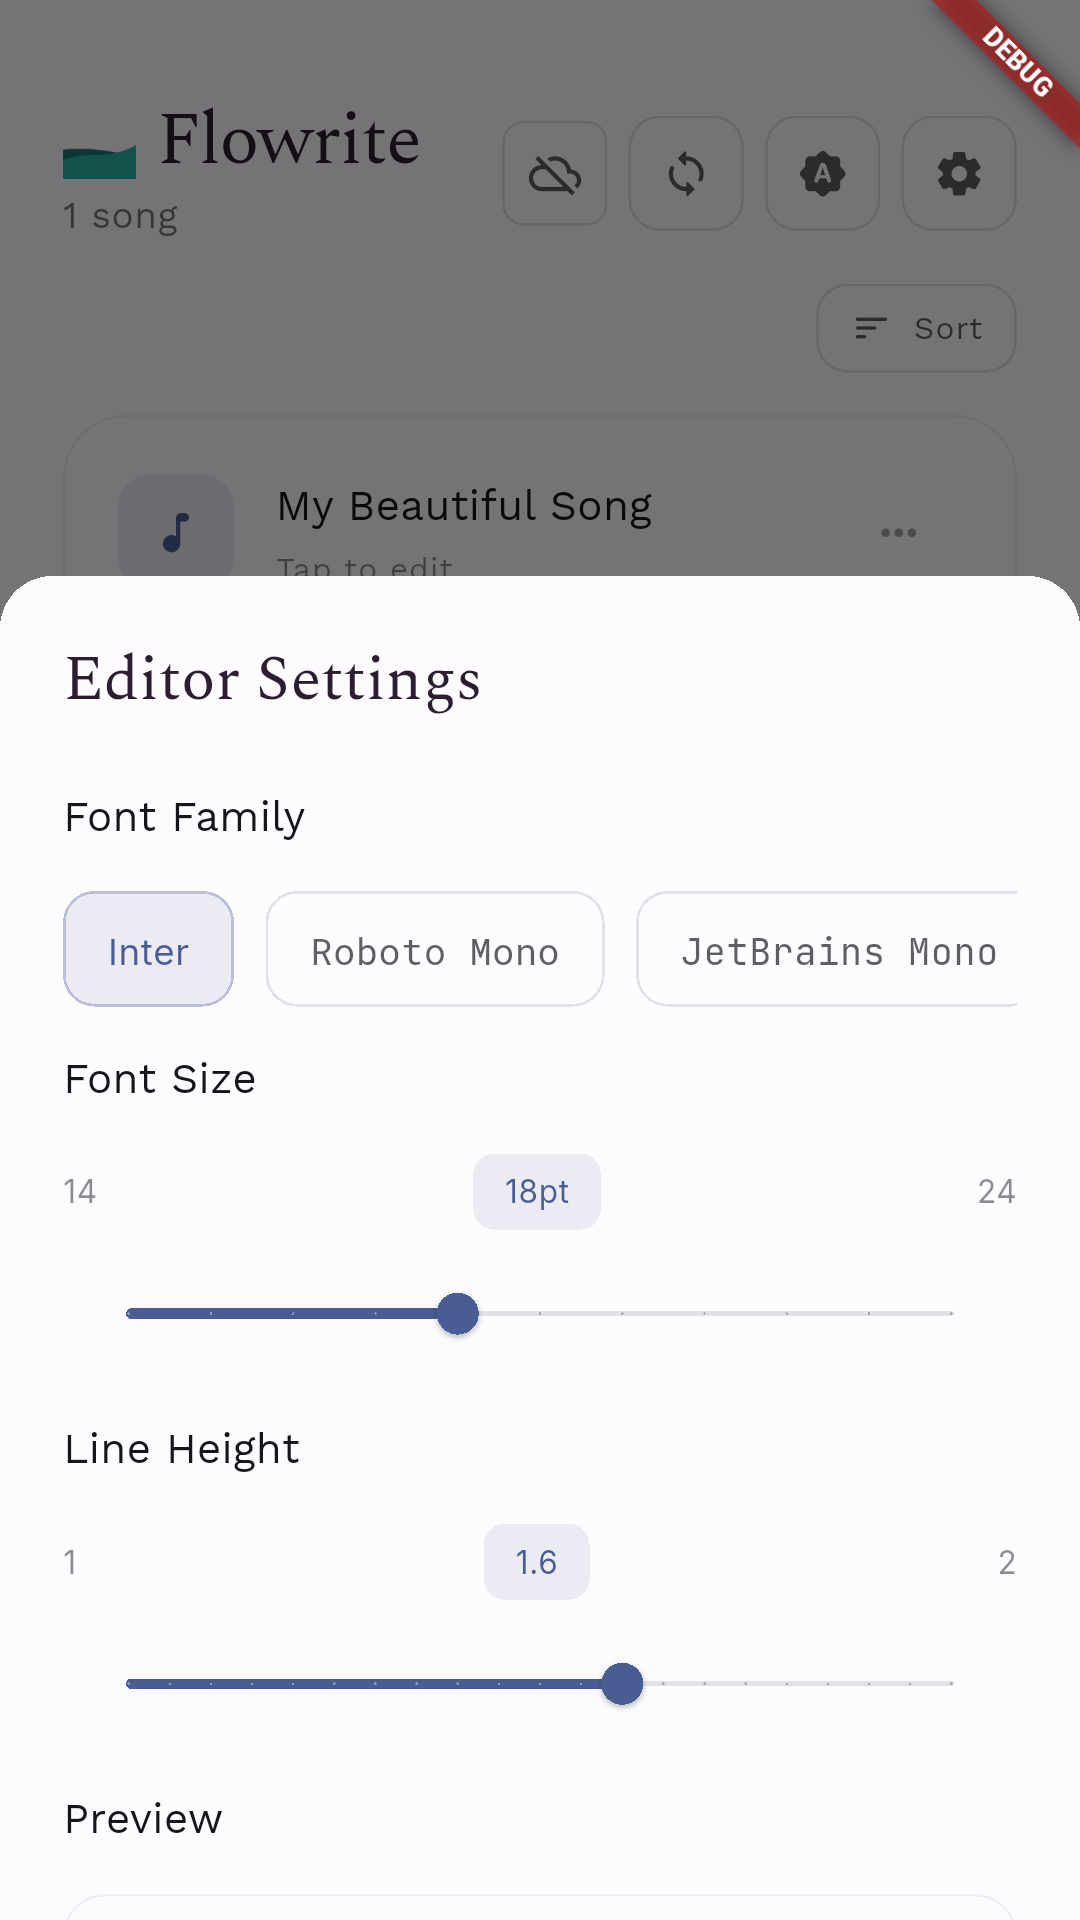
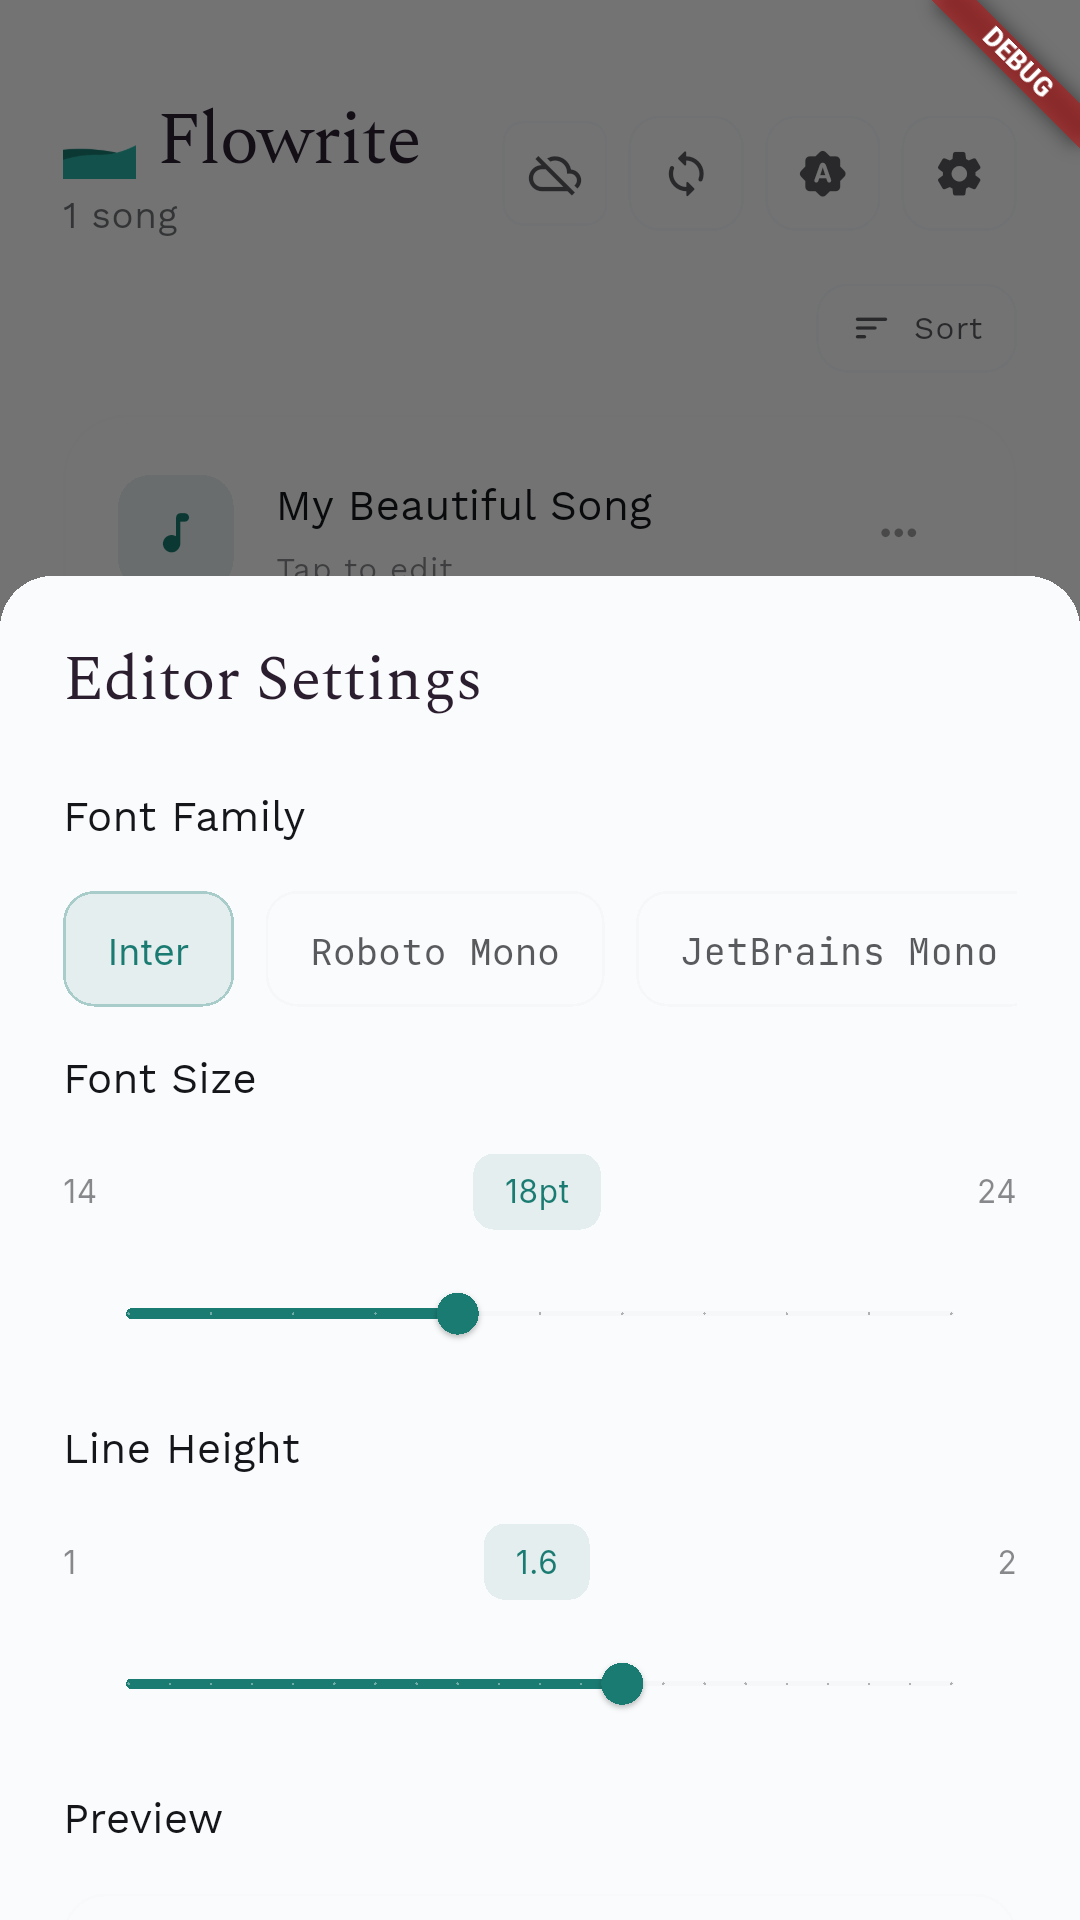
fixes: a11y fix and proper screenshots without dynamic colors.

Changed region(s): [[0.1222, 0.8438, 0.6111, 0.9062], [0.1222, 0.6562, 0.4583, 0.7188], [0.1222, 0.4688, 0.1528, 0.5]]

diff --git a/lib/providers/theme_provider.dart b/lib/providers/theme_provider.dart
@@ -172,7 +172,7 @@ class ThemeProvider extends ChangeNotifier {
     brightness: Brightness.light,
     colorScheme: const ColorScheme.light(
       primary: Color(0xFF1A7B72), // Flow Teal (Dark) - for light theme
-      onPrimary: Color(0xFF091313), // On Accent
+      onPrimary: Color(0xFFFAFBFC), // Porcelain - light theme consistent color
       secondary: Color(0xFF2B1E2F), // Deep Aubergine
       onSecondary: Color(0xFFFAFBFC), // Porcelain
       tertiary: Color(0xFF58465D), // Smoky Aubergine
@@ -275,7 +275,7 @@ class ThemeProvider extends ChangeNotifier {
     brightness: Brightness.dark,
     colorScheme: const ColorScheme.dark(
       primary: Color(0xFF2AB3A6), // Flow Teal (Bright) - for dark theme
-      onPrimary: Color(0xFF0A1917), // On Accent
+      onPrimary: Color(0xFF0A1917), // Dark text on bright teal for sufficient contrast
       secondary: Color(0xFF2B1E2F), // Deep Aubergine
       onSecondary: Color(0xFFFAFBFC), // Porcelain
       tertiary: Color(0xFF58465D), // Smoky Aubergine

diff --git a/CHANGELOG.md b/CHANGELOG.md
@@ -7,6 +7,10 @@ and this project adheres to [Semantic Versioning](https://semver.org/spec/v2.0.0
 
 ## [Unreleased]
 
+### 🔧 Fixed
+
+- **Accessibility**: Fixed + New button text color to meet WCAG contrast standards with proper theme-consistent colors
+
 ## [3.3.2] - 2025-08-22
 
 ### ✨ Added
